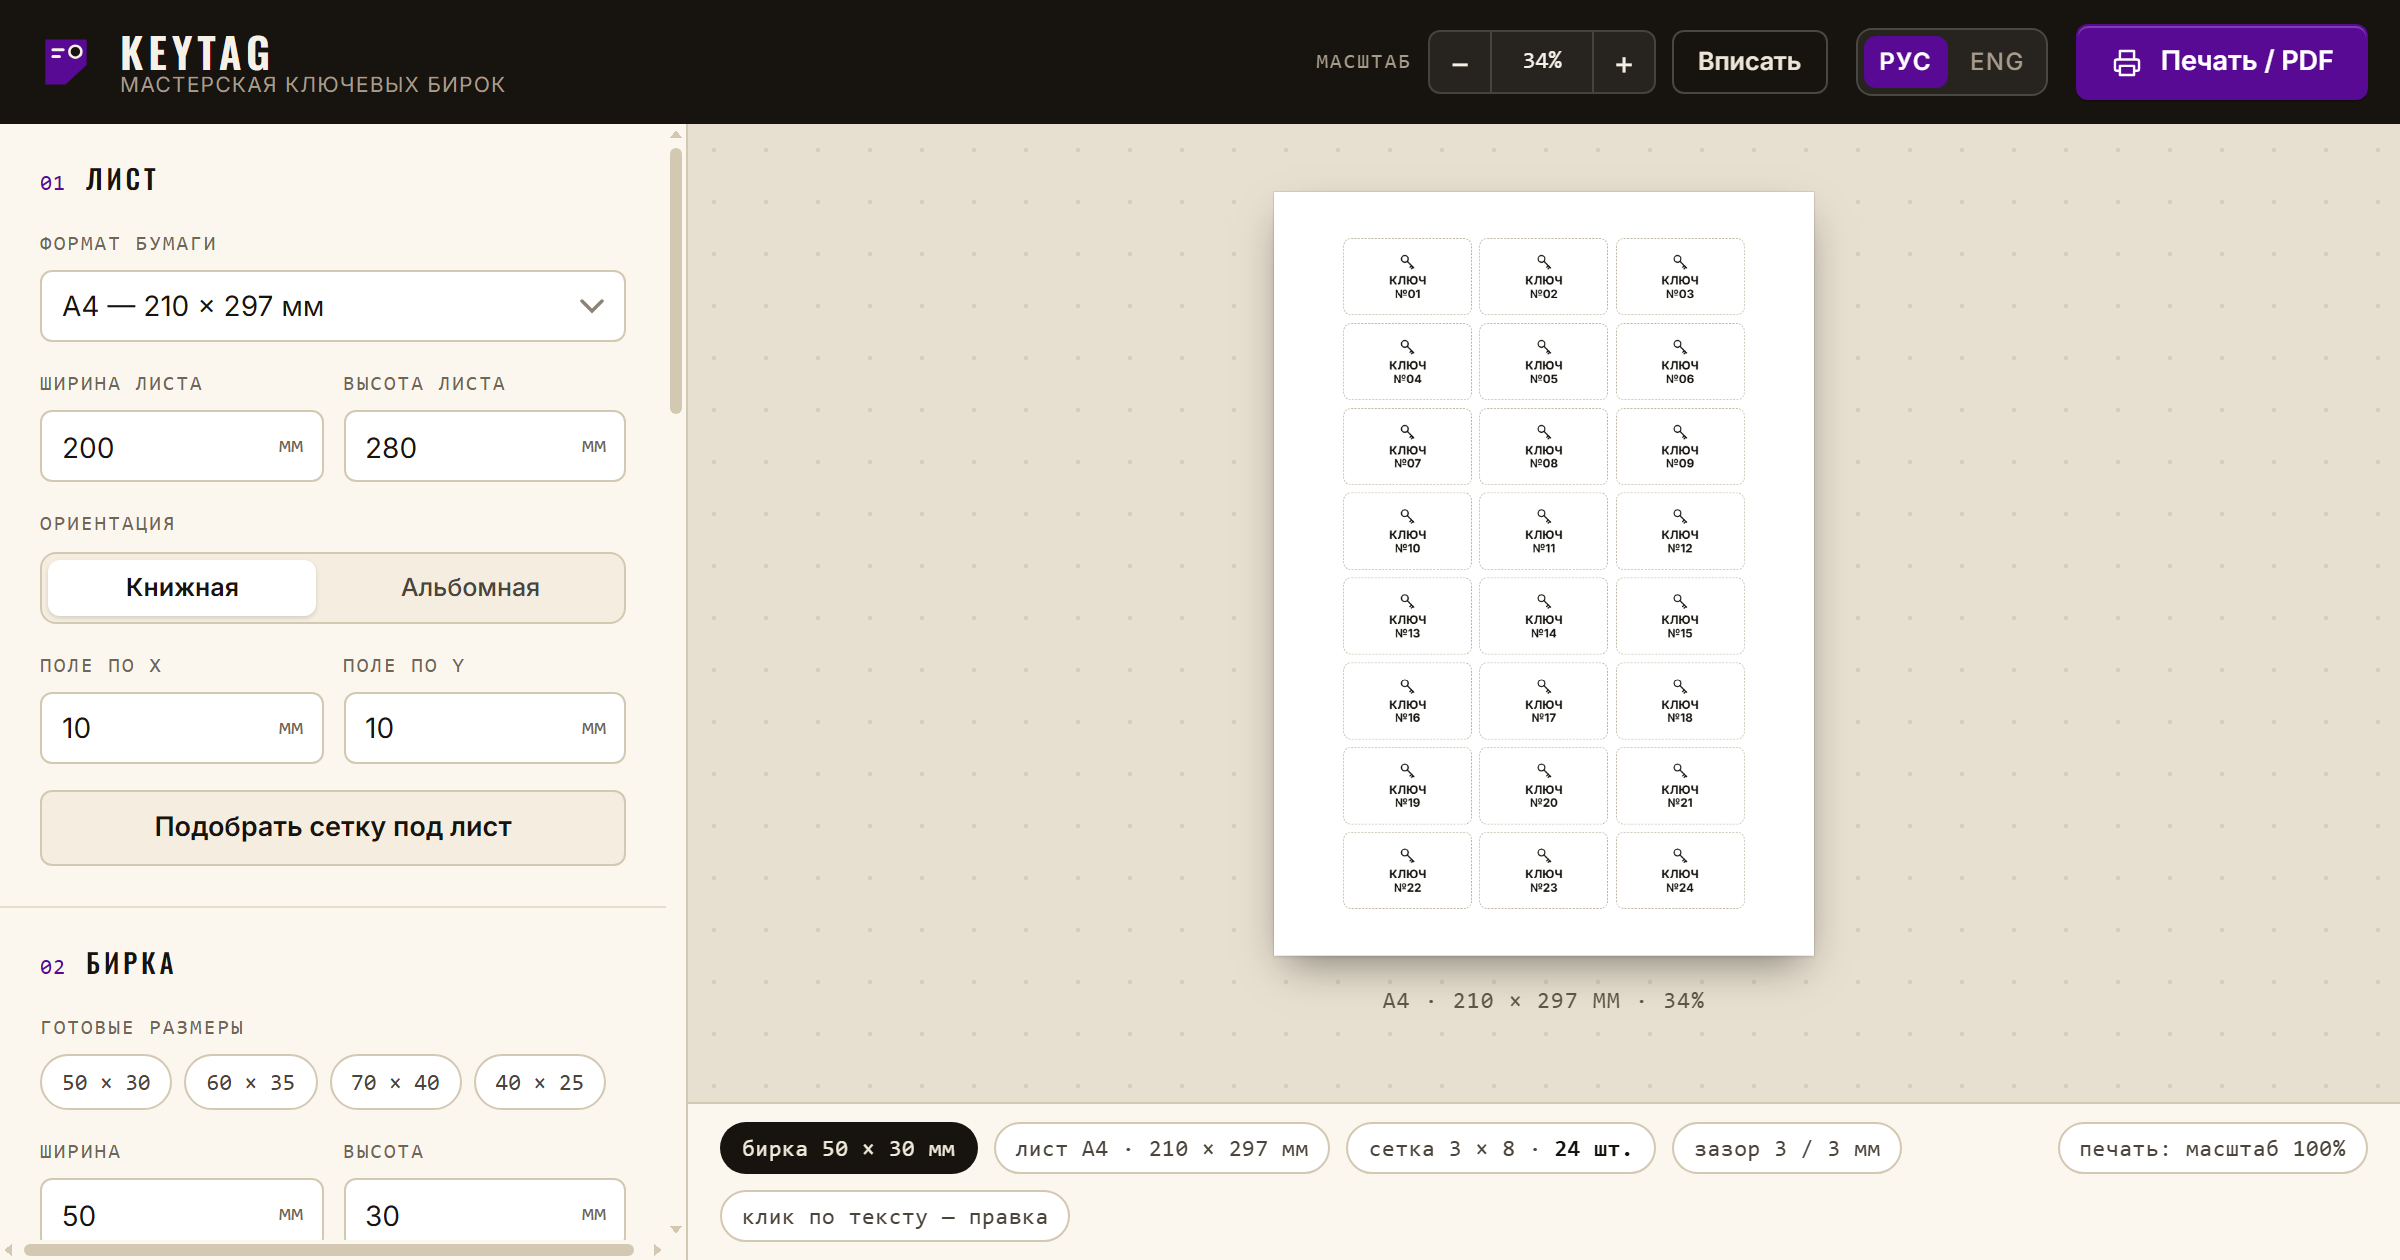
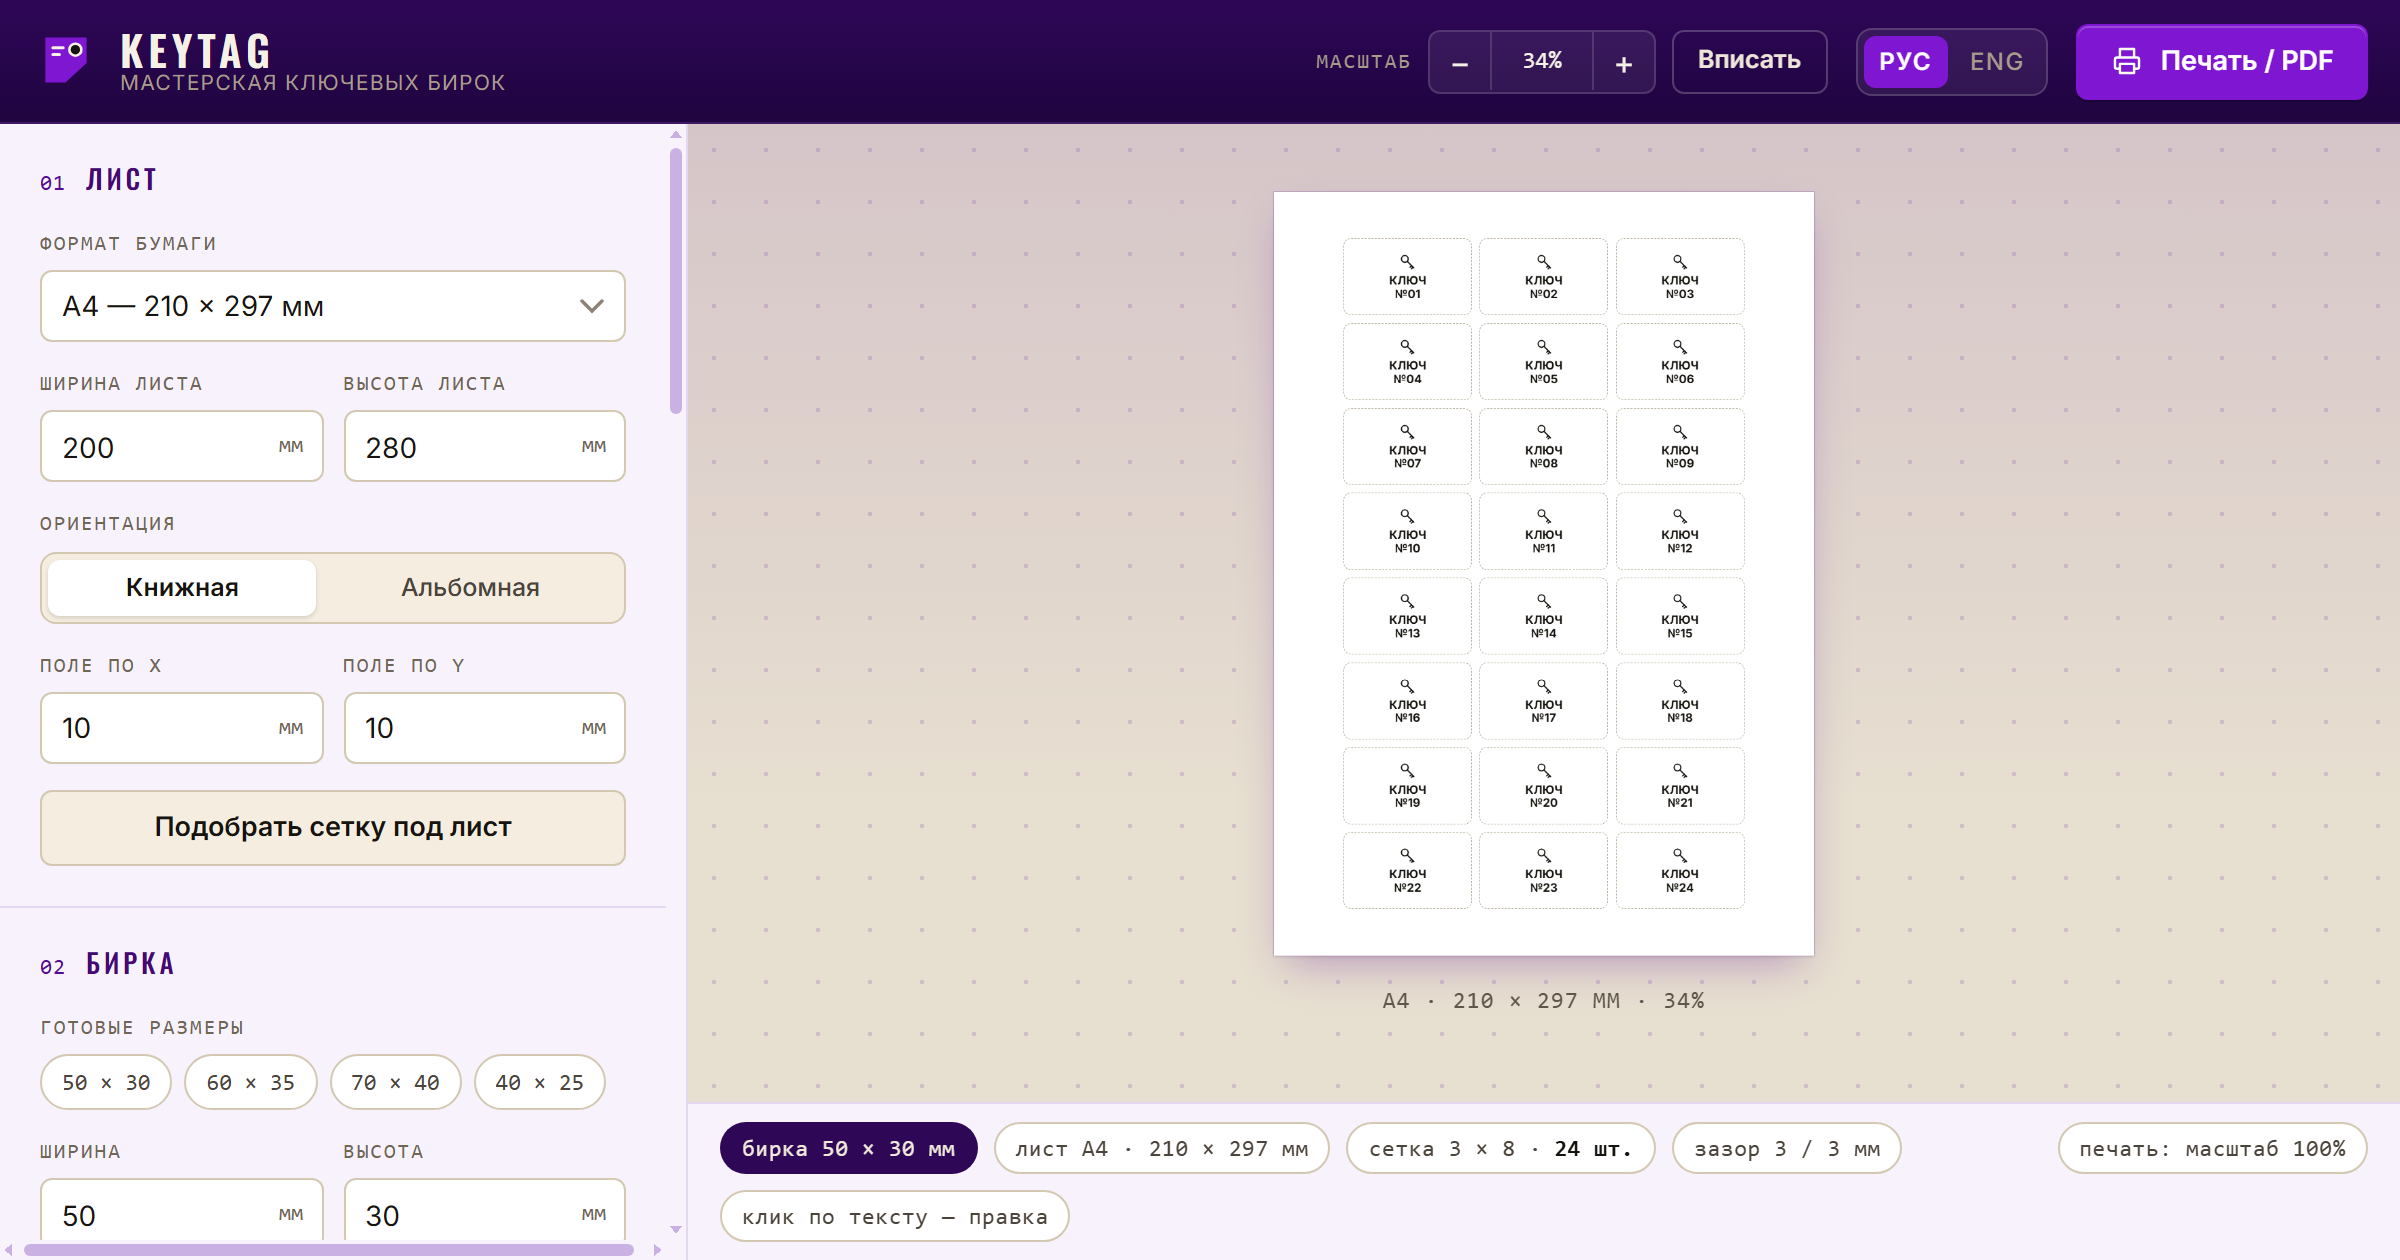
style: сделать фиолетовый доминирующим
- шапка — глубокий фиолетовый градиент #2E0757 → #1F043F, тема браузера theme-color обновлён
- панель и легенда — лавандовая #F7F2FC с лиловыми разделителями, заголовки секций в тёмном фиолетовом
- верстак — фиолетовый пунктир и выцветающая фиолетовая заливка сверху
- лист — фиолетовое кольцо и фиолетовая тень
- на тёмной шапке: яркий акцент #7F17D2 для кнопки печати, марки и активного языка
- бейдж размера и noscript в глубоком фиолетовом; печатный вывод не затрагивается
- docs/og.png пересобран

diff --git a/styles.css b/styles.css
@@ -1,6 +1,6 @@
 /* =========================================================
    KEYTAG — мастерская ключевых бирок
-   Стиль: светлый «цех» — тёплая бумага, чернила, фиолетовый акцент
+   Стиль «цех»: глубокий фиолет + тёплая бумага, акцент #590A94
    Все размеры бирок задаются и печатаются в миллиметрах.
    ========================================================= */
 
@@ -21,8 +21,17 @@
 
   --accent: #590A94;
   --accent-dark: #470876;
+  --accent-bright: #7F17D2;
+  --accent-bright-dark: #6A10AE;
   --accent-soft: rgba(89, 10, 148, .12);
-  --focus: 0 0 0 3px rgba(89, 10, 148, .16);
+  --focus: 0 0 0 3px rgba(89, 10, 148, .18);
+
+  /* глубокий фиолет «мастерской» */
+  --hero: #2E0757;
+  --hero-2: #1F043F;
+  --violet-panel: #F7F2FC;
+  --violet-line: #E4D7F2;
+  --violet-thumb: #C9B2E3;
 
   --r-s: 6px;
   --r-m: 10px;
@@ -55,7 +64,8 @@ button, input, select, textarea{ font: inherit; color: inherit; }
   flex: 0 0 auto;
   height: 62px;
   padding: 0 16px 0 18px;
-  background: var(--ink);
+  background: linear-gradient(180deg, var(--hero) 0%, var(--hero-2) 100%);
+  border-bottom: 1px solid rgba(255, 255, 255, .08);
   color: #F6F1E6;
   display: flex;
   align-items: center;
@@ -67,7 +77,7 @@ button, input, select, textarea{ font: inherit; color: inherit; }
 .brand{ display: flex; align-items: center; gap: 12px; min-width: 0; }
 
 .brand-mark{ width: 30px; height: 30px; flex: 0 0 auto; }
-.brand-mark path{ fill: var(--accent); }
+.brand-mark path{ fill: var(--accent-bright); }
 .brand-mark .brand-hole{ fill: var(--ink); stroke: #F6F1E6; stroke-width: 1.4; }
 .brand-mark .brand-line{ stroke: #F6F1E6; stroke-width: 1.6; stroke-linecap: round; }
 
@@ -157,11 +167,11 @@ button, input, select, textarea{ font: inherit; color: inherit; }
 .btn:active{ transform: translateY(1px); }
 
 .btn-primary{
-  background: var(--accent);
+  background: var(--accent-bright);
   color: #fff;
   box-shadow: 0 1px 0 rgba(0,0,0,.25), inset 0 1px 0 rgba(255,255,255,.22);
 }
-.btn-primary:hover{ background: var(--accent-dark); }
+.btn-primary:hover{ background: var(--accent-bright-dark); }
 
 .btn-dark-ghost{
   background: transparent;
@@ -221,7 +231,7 @@ button, input, select, textarea{ font: inherit; color: inherit; }
 
 .seg-dark{ background: rgba(255,255,255,.07); border-color: rgba(255,255,255,.16); }
 .seg-dark button{ color: #A79C8B; height: 26px; font-size: 12px; letter-spacing: .06em; }
-.seg-dark button.active{ background: var(--accent); color: #fff; box-shadow: none; }
+.seg-dark button.active{ background: var(--accent-bright); color: #fff; box-shadow: none; }
 
 .chips{ display: flex; flex-wrap: wrap; gap: 6px; }
 
@@ -273,19 +283,19 @@ button, input, select, textarea{ font: inherit; color: inherit; }
 .panel{
   flex: 0 0 344px;
   width: 344px;
-  background: var(--panel);
-  border-right: 1px solid var(--line-2);
+  background: var(--violet-panel);
+  border-right: 1px solid var(--violet-line);
   overflow-y: auto;
   overscroll-behavior: contain;
   scrollbar-width: thin;
-  scrollbar-color: var(--line-2) transparent;
+  scrollbar-color: var(--violet-thumb) transparent;
 }
 .panel::-webkit-scrollbar{ width: 10px; }
-.panel::-webkit-scrollbar-thumb{ background: var(--line-2); border-radius: 99px; border: 3px solid var(--panel); }
+.panel::-webkit-scrollbar-thumb{ background: var(--violet-thumb); border-radius: 99px; border: 3px solid var(--violet-panel); }
 
 .sec{
   padding: 18px 20px 20px;
-  border-bottom: 1px solid var(--line);
+  border-bottom: 1px solid var(--violet-line);
 }
 
 .sec-title{
@@ -298,7 +308,7 @@ button, input, select, textarea{ font: inherit; color: inherit; }
   font-weight: 500;
   letter-spacing: .14em;
   text-transform: uppercase;
-  color: var(--ink);
+  color: var(--accent-dark);
 }
 
 .sec-num{
@@ -489,7 +499,8 @@ select.input{
   display: flex;
   flex-direction: column;
   background:
-    radial-gradient(circle at center, rgba(23, 20, 15, .09) 1px, transparent 1.2px) 0 0 / 26px 26px,
+    radial-gradient(circle at center, rgba(89, 10, 148, .16) 1px, transparent 1.2px) 0 0 / 26px 26px,
+    linear-gradient(180deg, rgba(89, 10, 148, .12), rgba(89, 10, 148, 0) 340px),
     var(--stage);
 }
 
@@ -504,7 +515,7 @@ select.input{
   scrollbar-color: var(--line-2) transparent;
 }
 .stage-scroll::-webkit-scrollbar{ width: 12px; height: 12px; }
-.stage-scroll::-webkit-scrollbar-thumb{ background: var(--line-2); border-radius: 99px; border: 3px solid transparent; background-clip: padding-box; }
+.stage-scroll::-webkit-scrollbar-thumb{ background: var(--violet-thumb); border-radius: 99px; border: 3px solid transparent; background-clip: padding-box; }
 
 .sheet-frame{ position: relative; }
 
@@ -516,9 +527,9 @@ select.input{
 .sheet{
   background: var(--paper);
   box-shadow:
-    0 0 0 1px rgba(23, 20, 15, .1),
+    0 0 0 1px rgba(89, 10, 148, .22),
     0 2px 5px rgba(23, 20, 15, .1),
-    0 26px 60px -18px rgba(23, 20, 15, .5);
+    0 26px 60px -18px rgba(89, 10, 148, .35);
   display: flex;
   align-items: center;
   justify-content: center;
@@ -677,8 +688,8 @@ select.input{
   flex: 0 0 auto;
   min-height: 44px;
   padding: 9px 16px;
-  background: var(--panel);
-  border-top: 1px solid var(--line-2);
+  background: var(--violet-panel);
+  border-top: 1px solid var(--violet-line);
   display: flex;
   align-items: center;
   flex-wrap: wrap;
@@ -704,7 +715,7 @@ select.input{
 
 .badge-accent{
   border-color: transparent;
-  background: var(--ink);
+  background: var(--hero);
   color: #F1EADB;
 }
 .badge-accent strong{ color: #fff; }
@@ -730,7 +741,7 @@ select.input{
   position: fixed;
   inset: auto 16px 16px;
   padding: 14px 18px;
-  background: var(--ink);
+  background: var(--hero);
   color: #fff;
   border-radius: var(--r-m);
   z-index: 99;
@@ -762,7 +773,7 @@ select.input{
   .topbar-actions{ width: 100%; justify-content: space-between; gap: 8px; flex-wrap: wrap; }
   .layout{ flex-direction: column; }
   .stage{ min-height: 66vh; order: 1; }
-  .panel{ order: 2; flex: 1 1 auto; width: auto; border-right: 0; border-top: 1px solid var(--line-2); overflow: visible; }
+  .panel{ order: 2; flex: 1 1 auto; width: auto; border-right: 0; border-top: 1px solid var(--violet-line); overflow: visible; }
   .stage-scroll{ padding: 20px 14px 14px; }
   #zoomFit{ display: none; }
 }

diff --git a/index.html b/index.html
@@ -7,7 +7,7 @@
 <meta name="description" content="Статический редактор сетки бирок для ключей: реальные размеры в миллиметрах, текст, иконки, точная печать.">
 <meta name="author" content="Herman Guilliman">
 <meta name="copyright" content="© 2026 Herman Guilliman">
-<meta name="theme-color" content="#17140F">
+<meta name="theme-color" content="#2E0757">
 <link rel="canonical" href="https://keytag.guilliman.ru/">
 
 <!-- OpenGraph / Twitter -->
